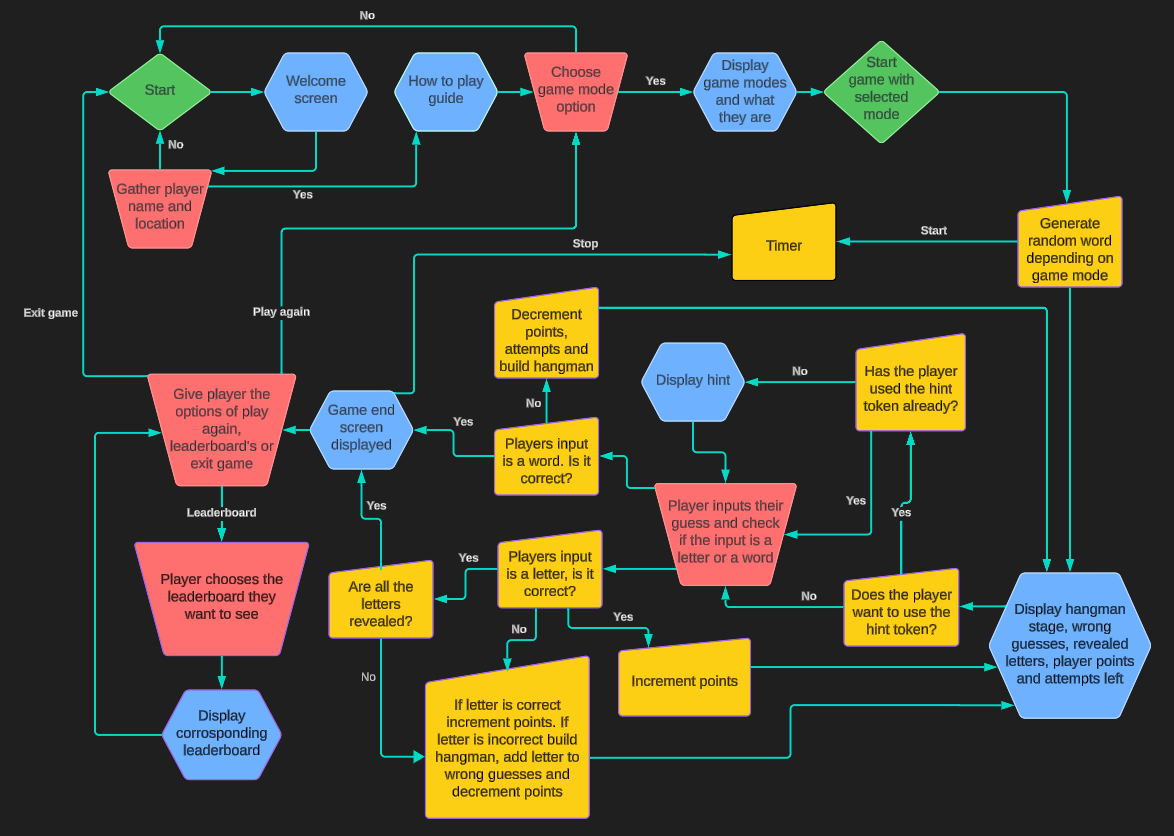
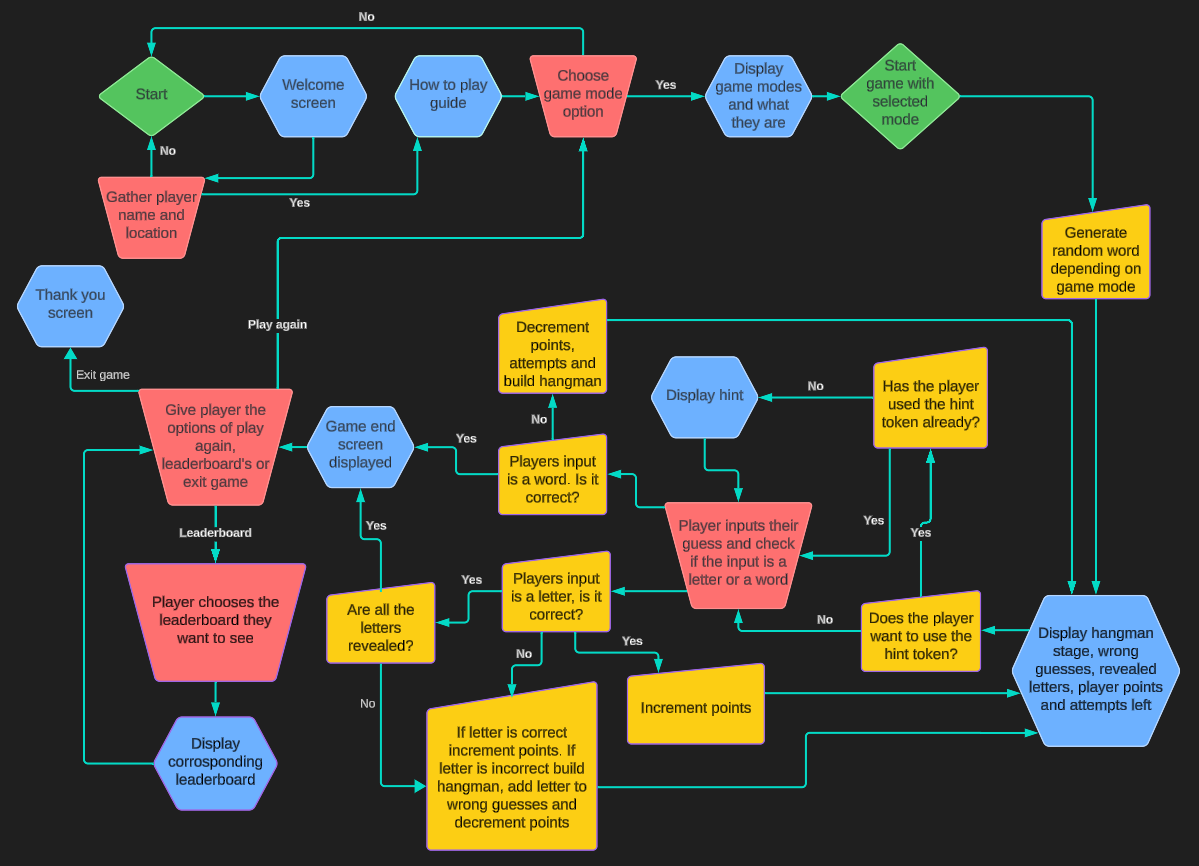
Add exit game screen section to readme, update game logic flowchart

Changed region(s): [[0.0, 0.0311, 0.9813, 0.9952], [0.276, 0.0, 0.3373, 0.0311]]

diff --git a/docs/README.md b/docs/README.md
@@ -39,6 +39,7 @@ The game's challenging nature alongside the leaderboard system creates a competi
     - [**Game end screen**](#game-end-screens)
       - [**Game win screen**](#game-win-screen)
       - [**Game lose screen**](#game-lose-screen)
+    - [**Exit game screens**](#exit-game-screens)
   - [**Future enhancements**](#future-enhancements)
     - [**Ranked mode**](#ranked-mode)
     - [**Custom modes**](#custom-modes)
@@ -319,6 +320,16 @@ When the player loses, they see the following:
 - Options to Play again, see leaderboards or exit the game
 
 ![Game lose screen](screenshots/ultimate-hangman-lose-screen.png)
+
+## **Exit Game Screens:**
+
+If the player exit's the game but _has not_ won a game before doing so, they see the following:
+
+![Exit game screen 1](screenshots/ultimate-hangman-thank-you.png)
+
+If the player exit's the game and _has_ won a game before doing so, they see the following:
+
+![Exit game screen 2](screenshots/ultimate-hangman-thank-you-2.png)
 
 # **Future-Enhancements**
 
